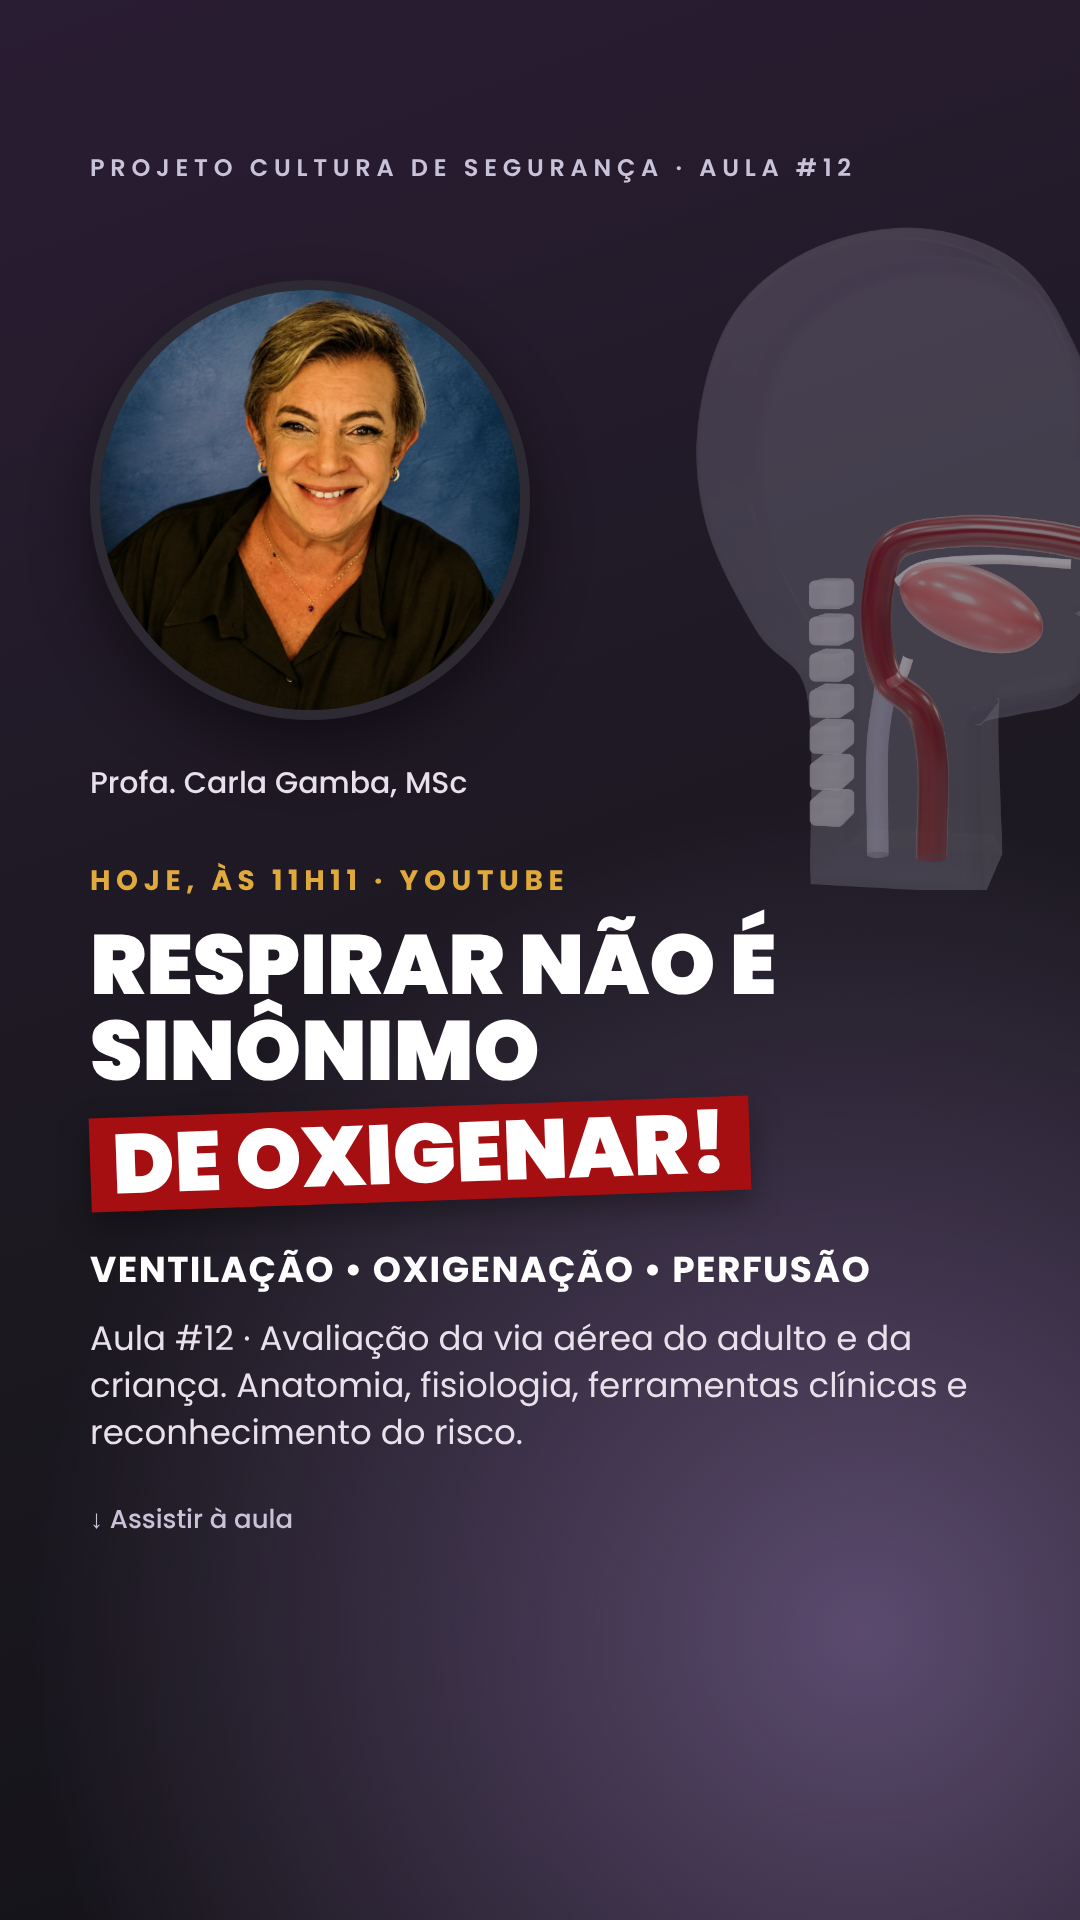
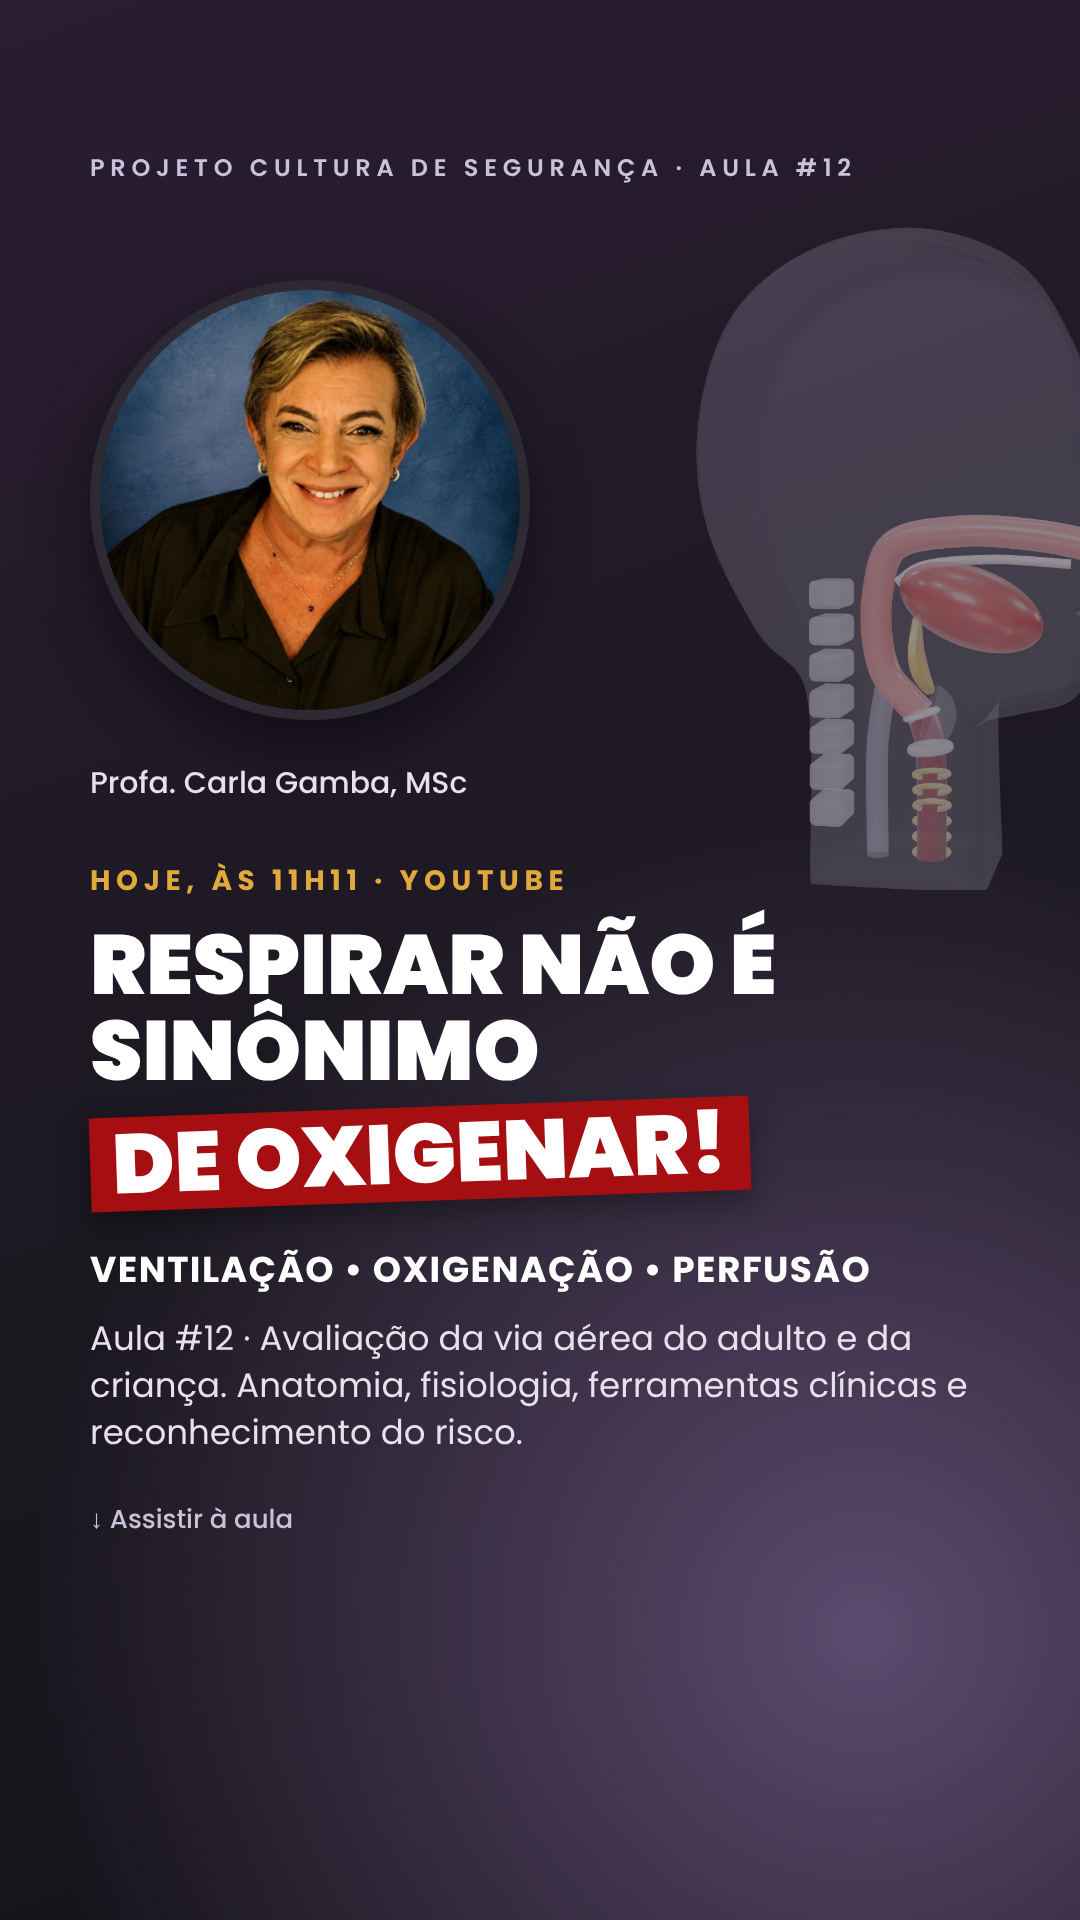
Perfil 3D da via aérea: epiglote, glote, cricoide e tons supra × infraglóticos; ampliação da laringe com legendas; stories atualizados
Claude-Session: https://claude.ai/code/session_01MYEGXM9LVv4Rd1VsREZmpT

Changed region(s): [[0.7944, 0.25, 1.0, 0.4688]]

diff --git a/aulas-vias-aereas/slides-aula12/3d/cena.html b/aulas-vias-aereas/slides-aula12/3d/cena.html
@@ -105,15 +105,39 @@ if (KIND==='perfil' || KIND==='pretraq'){
   const g=new THREE.ExtrudeGeometry(sh,{depth:1.6,bevelEnabled:true,bevelThickness:0.35,bevelSize:0.2,bevelSegments:10,curveSegments:120}); g.translate(0,0,-0.8);
   const head=new THREE.Mesh(g, glass(LAV,0.22,0.12)); scene.add(head);
   const grp=new THREE.Group(); scene.add(grp);
-  // via aérea superior
-  tube([[2.3,-0.28,0],[1.6,-0.15,0],[0.6,-0.1,0],[-0.25,-0.3,0],[-0.45,-0.9,0],[-0.45,-1.5,0],[-0.3,-2.0,0],[0.1,-2.35,0],[0.25,-2.9,0],[0.25,-4.25,0]],0.2,glass(WINE,0.7,0.2));
+  // via aérea SUPRAGLÓTICA (cavidade nasal, nasofaringe, orofaringe, laringofaringe) — tom rosé
+  const SUPRA=0xE27C80, INFRA=0x6E0A0D;
+  tube([[2.3,-0.28,0],[1.6,-0.15,0],[0.6,-0.1,0],[-0.25,-0.3,0],[-0.45,-0.9,0],[-0.45,-1.5,0],[-0.32,-1.95,0],[-0.05,-2.25,0],[0.12,-2.42,0]],0.2,glass(SUPRA,0.72,0.2));
+  // via aérea INFRAGLÓTICA (subglote e traqueia) — vinho profundo
+  const inf=tube([[0.12,-2.42,0],[0.22,-2.75,0],[0.25,-3.2,0],[0.25,-4.25,0]],0.19,glass(INFRA,0.97,0.28));
+  rings(inf.curve,0.215,6,glass(GOLD,0.9,0.25),0.42,0.96);
+  // glote: plano das pregas vocais (limite supra × infraglótico)
+  const gp=inf.curve.getPointAt(0.0), gt=inf.curve.getTangentAt(0.0);
+  const glote=new THREE.Mesh(new THREE.TorusGeometry(0.21,0.035,16,64), solid(0xFFFFFF,0.25,0.1));
+  glote.position.copy(gp); glote.quaternion.setFromUnitVectors(new THREE.Vector3(0,0,1),gt); scene.add(glote);
+  const dsc=new THREE.Mesh(new THREE.CircleGeometry(0.2,48), new THREE.MeshPhysicalMaterial({color:0xFFFFFF,transparent:true,opacity:0.35,side:THREE.DoubleSide,depthWrite:false}));
+  dsc.position.copy(gp); dsc.quaternion.copy(glote.quaternion); scene.add(dsc);
+  // cartilagem tireóidea (escudo anterior, translúcido) e anel cricoide
+  const tir=new THREE.Mesh(new THREE.SphereGeometry(1,40,24,0,Math.PI*2,0,Math.PI*0.5), glass(0xD9D7E8,0.22,0.2));
+  tir.scale.set(0.42,0.36,0.38); tir.rotation.z=-Math.PI/2-0.25; tir.position.set(0.2,-2.45,0); scene.add(tir);
+  const cp=inf.curve.getPointAt(0.24), ct=inf.curve.getTangentAt(0.24);
+  const cri=new THREE.Mesh(new THREE.TorusGeometry(0.23,0.07,16,64), glass(0xD9D7E8,0.85,0.2));
+  cri.position.copy(cp); cri.quaternion.setFromUnitVectors(new THREE.Vector3(0,0,1),ct); scene.add(cri);
   // esôfago (posterior)
   tube([[-0.35,-2.1,0],[-0.45,-2.8,0],[-0.45,-4.25,0]],0.14,glass(0x8a87a8,0.55,0.3));
   // língua
   const tg=new THREE.Mesh(new THREE.SphereGeometry(1,48,32), glass(0xB84A4C,0.7,0.25)); tg.scale.set(0.95,0.5,0.55); tg.position.set(0.75,-1.05,0); tg.rotation.z=-0.35; scene.add(tg);
-  // palato e epiglote
+  // palato
   tube([[2.0,-0.5,0],[1.0,-0.45,0],[0.1,-0.55,0],[-0.2,-0.75,0]],0.06,solid(0xF4D9D9,0.3,0.1));
-  tube([[-0.05,-1.7,0],[-0.15,-1.95,0],[-0.3,-2.05,0]],0.07,solid(0xF4D9D9,0.3,0.1));
+  // EPIGLOTE: lâmina foliácea fixada atrás da base da língua, com a borda livre voltada para cima e para trás, sobre o ádito laríngeo
+  const leaf=new THREE.Shape(); leaf.moveTo(0,0); leaf.bezierCurveTo(0.26,0.12,0.30,0.48,0.0,0.78); leaf.bezierCurveTo(-0.30,0.48,-0.26,0.12,0,0);
+  const lg=new THREE.ExtrudeGeometry(leaf,{depth:0.05,bevelEnabled:true,bevelThickness:0.03,bevelSize:0.03,bevelSegments:4,curveSegments:48});
+  const pos=lg.attributes.position; for(let i=0;i<pos.count;i++){const y=pos.getY(i), x=pos.getX(i); pos.setZ(i,pos.getZ(i)-0.9*x*x+0.25*y*y);} lg.computeVertexNormals();
+  const epi=new THREE.Mesh(lg, solid(GOLD,0.3,0.25));
+  epi.rotation.order='YXZ'; epi.rotation.y=Math.PI/2; epi.rotation.z=0; epi.rotation.x=0;
+  const eg=new THREE.Group(); eg.add(epi); eg.position.set(0.2,-2.13,0); eg.rotation.z=0.38; eg.scale.setScalar(1.15); scene.add(eg);
+  // valécula (prega entre a base da língua e a epiglote)
+  window.ANCH={supra:[-0.45,-0.9,0],epi:[-0.08,-1.5,0],glote:[gp.x,gp.y,gp.z],infra:[0.25,-3.6,0],lingua:[0.9,-0.95,0]};
   // coluna cervical
   for(let i=0;i<7;i++){const v=new THREE.Mesh(new RoundedBoxGeometry(0.45,0.36,0.7,4,0.08), glass(0xD9D7E8,0.6,0.3)); v.position.set(-1.05,-0.9-i*0.46,0); scene.add(v);}
   camera.position.set(3.0,0.2,15.5); camera.lookAt(0.1,-0.4,0);
@@ -144,6 +168,8 @@ if (KIND==='pretraq'){
   for(let i=0;i<3;i++){const w=new THREE.Mesh(new THREE.TorusGeometry(0.35+i*0.22,0.025,12,64,Math.PI*0.9),glass(LAV,0.9-i*0.2,0.2)); w.rotation.y=Math.PI/2; w.rotation.x=0; w.position.set(0.55+i*0.12,-3.55,0); w.rotateZ(-Math.PI*0.45); scene.add(w);}
   camera.position.set(4.5,-0.6,15.5); camera.lookAt(0.6,-1.0,0);
 }
+if (P.get('zoom')==='1'){ camera.position.set(1.4,-1.7,6.2); camera.lookAt(0.0,-2.0,0); }
 renderer.render(scene,camera);
+if (window.ANCH){ scene.updateMatrixWorld(); camera.updateMatrixWorld(); const o={}; for(const [k,v] of Object.entries(window.ANCH)){const p=new THREE.Vector3(...v).project(camera); o[k]=[Math.round((p.x+1)/2*W),Math.round((1-p.y)/2*H)];} console.log('ANCH '+JSON.stringify(o)); }
 document.title='ok';
 </script></body></html>

diff --git a/aulas-vias-aereas/slides-aula12/3d/perfil-laringe-legendas.html b/aulas-vias-aereas/slides-aula12/3d/perfil-laringe-legendas.html
@@ -1,0 +1,20 @@
+<!doctype html><html><head><meta charset='utf-8'>
+<link href='https://fonts.googleapis.com/css2?family=Poppins:wght@400;500;600;700;800&display=swap' rel='stylesheet'>
+<style>*{margin:0;padding:0;box-sizing:border-box}body{width:1920px;height:1080px;position:relative;overflow:hidden;font-family:Poppins;background:linear-gradient(135deg,#EEEDF6 0%,#E4E3EE 100%);color:#2A2526}
+.img{position:absolute;left:0;top:0;width:1400px;height:1080px}
+svg{position:absolute;left:0;top:0}
+.t{position:absolute;left:1450px;top:40px;right:60px}
+.t .k{font-size:20px;letter-spacing:.2em;color:#E0A93B;font-weight:700;text-transform:uppercase}
+.t h1{font-size:38px;line-height:1.1;color:#690D0E;font-weight:800;margin-top:8px}
+.lb{position:absolute;left:1450px;right:50px;display:flex;gap:14px;align-items:flex-start}
+.lb b{display:block;font-size:26px;color:#690D0E;font-weight:800;line-height:1.15}
+.lb small{display:block;font-size:17px;line-height:1.3;color:#5d5970;margin-top:3px}
+.chip{flex:0 0 22px;height:22px;border-radius:50%;margin-top:5px;border:2px solid rgba(105,13,14,.35)}
+.ref{position:absolute;left:1450px;right:30px;bottom:22px;font-size:14px;color:#7d7a8c}
+</style></head><body>
+<img class='img' src='file:///home/user/elo-vital/aulas-vias-aereas/slides-aula12/img/perfil-laringe.png'>
+<svg width='1920' height='1080'><polyline points='960,230 1000,262 1430,262' fill='none' stroke='#690D0E' stroke-width='2.5' stroke-dasharray=''/><circle cx='960' cy='230' r='9' fill='#690D0E'/><circle cx='960' cy='230' r='4' fill='#fff'/><polyline points='565,300 605,385 1430,385' fill='none' stroke='#690D0E' stroke-width='2.5' stroke-dasharray=''/><circle cx='565' cy='300' r='9' fill='#690D0E'/><circle cx='565' cy='300' r='4' fill='#fff'/><polyline points='728,430 768,515 1430,515' fill='none' stroke='#690D0E' stroke-width='2.5' stroke-dasharray=''/><circle cx='728' cy='430' r='9' fill='#690D0E'/><circle cx='728' cy='430' r='4' fill='#fff'/><polyline points='740,668 780,655 1430,655' fill='none' stroke='#690D0E' stroke-width='2.5' stroke-dasharray=''/><circle cx='740' cy='668' r='9' fill='#690D0E'/><circle cx='740' cy='668' r='4' fill='#fff'/><polyline points='775,812 815,800 1430,800' fill='none' stroke='#690D0E' stroke-width='2.5' stroke-dasharray=''/><circle cx='775' cy='812' r='9' fill='#690D0E'/><circle cx='775' cy='812' r='4' fill='#fff'/><polyline points='778,960 818,945 1430,945' fill='none' stroke='#690D0E' stroke-width='2.5' stroke-dasharray=''/><circle cx='778' cy='960' r='9' fill='#690D0E'/><circle cx='778' cy='960' r='4' fill='#fff'/></svg>
+<div class='t'><div class='k'>Via aérea superior</div><h1>Supraglótica × infraglótica</h1></div>
+<div class='lb' style='top:236px'><span class='chip' style='background:#B84A4C'></span><div><b>Língua</b></div></div><div class='lb' style='top:359px'><span class='chip' style='background:#E27C80'></span><div><b>Porção supraglótica</b><small>nasofaringe, orofaringe e laringofaringe</small></div></div><div class='lb' style='top:489px'><span class='chip' style='background:#E0A93B'></span><div><b>Epiglote</b><small>borda livre voltada para cima e para trás, sobre o ádito laríngeo</small></div></div><div class='lb' style='top:629px'><span class='chip' style='background:#FFFFFF'></span><div><b>Glote</b><small>plano das pregas vocais: limite entre as duas porções</small></div></div><div class='lb' style='top:774px'><span class='chip' style='background:#D9D7E8'></span><div><b>Cartilagem cricoide</b><small>anel completo, abaixo da glote</small></div></div><div class='lb' style='top:919px'><span class='chip' style='background:#6E0A0D'></span><div><b>Porção infraglótica</b><small>subglote e traqueia, com os anéis traqueais</small></div></div>
+<div class='ref'>Esquema ilustrativo, fora de escala · Projeto Cultura de Segurança</div>
+</body></html>

diff --git a/aulas-vias-aereas/slides-aula12/3d/render.js b/aulas-vias-aereas/slides-aula12/3d/render.js
@@ -3,13 +3,13 @@ const path=require('path');
 (async()=>{
   const b=await chromium.launch({args:['--use-gl=angle','--use-angle=swiftshader','--enable-unsafe-swiftshader','--allow-file-access-from-files']});
   const jobs=(process.argv[2]?JSON.parse(process.argv[2]):[['via',1100,1080],['som',1100,1080],['esteto',1100,900],['lua',900,900],['escudo',900,900]]);
-  for(const [k,w,h] of jobs){
+  for(const [k,w,h,ex='',out=k] of jobs){
     const p=await b.newPage({viewport:{width:w,height:h}});
     p.on('console',m=>console.log(k,m.text())); p.on('pageerror',e=>console.log(k,'ERR',e.message));
-    await p.goto('file://'+path.resolve(__dirname,'cena.html')+`?k=${k}&w=${w}&h=${h}`);
+    await p.goto('file://'+path.resolve(__dirname,'cena.html')+`?k=${k}&w=${w}&h=${h}${ex}`);
     await p.waitForFunction(()=>document.title==='ok',null,{timeout:60000});
     await p.waitForTimeout(500);
-    await p.screenshot({path:path.resolve(__dirname,`../img/${k}.png`),omitBackground:true});
+    await p.screenshot({path:path.resolve(__dirname,`../img/${out}.png`),omitBackground:true});
     await p.close(); console.log('ok',k);
   }
   await b.close();
